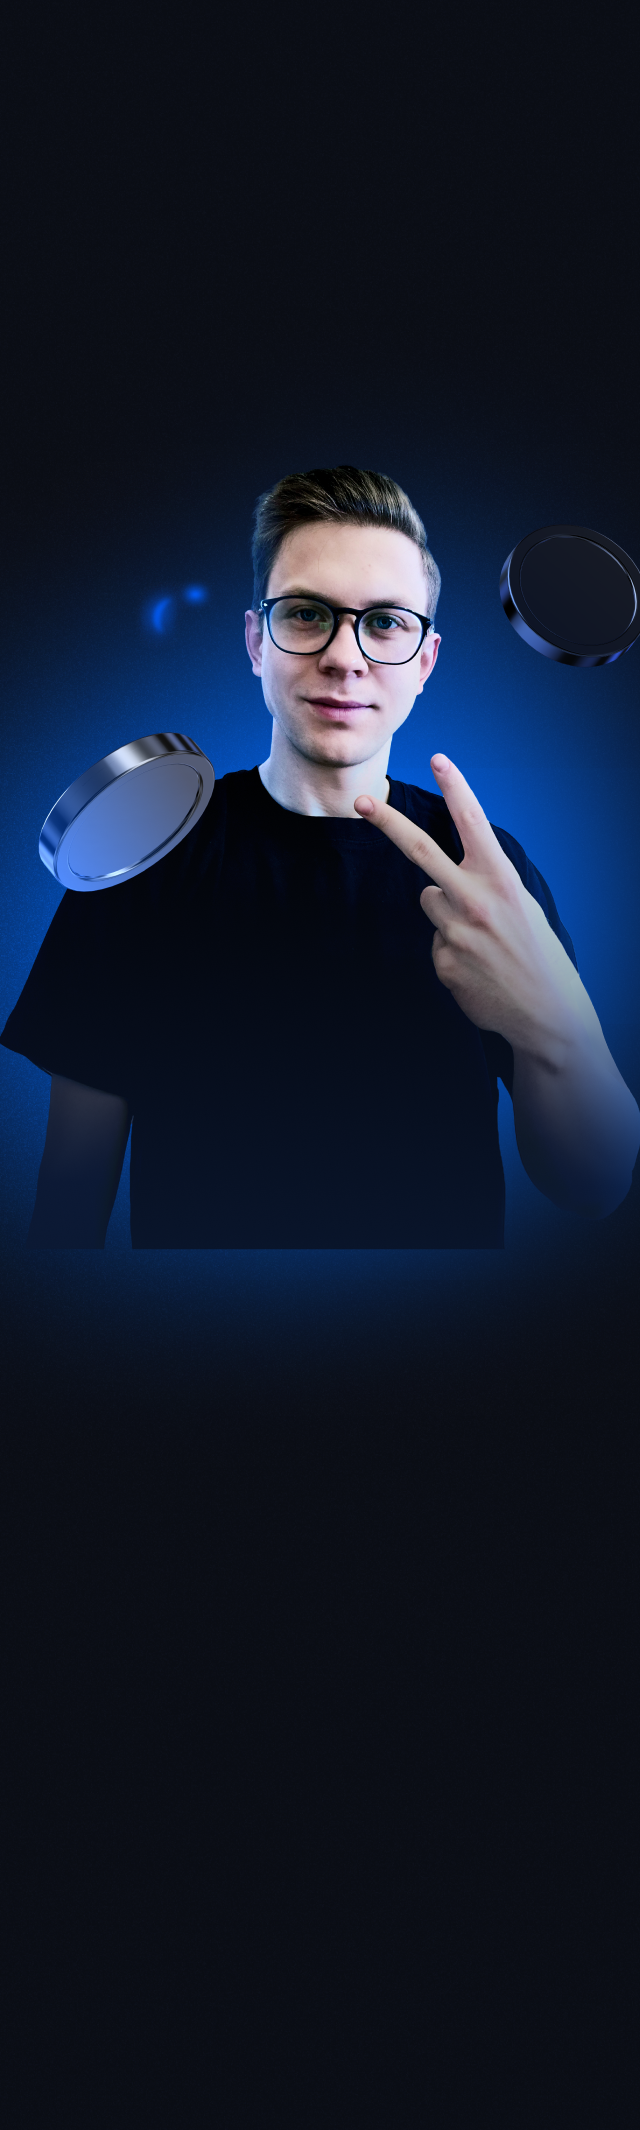
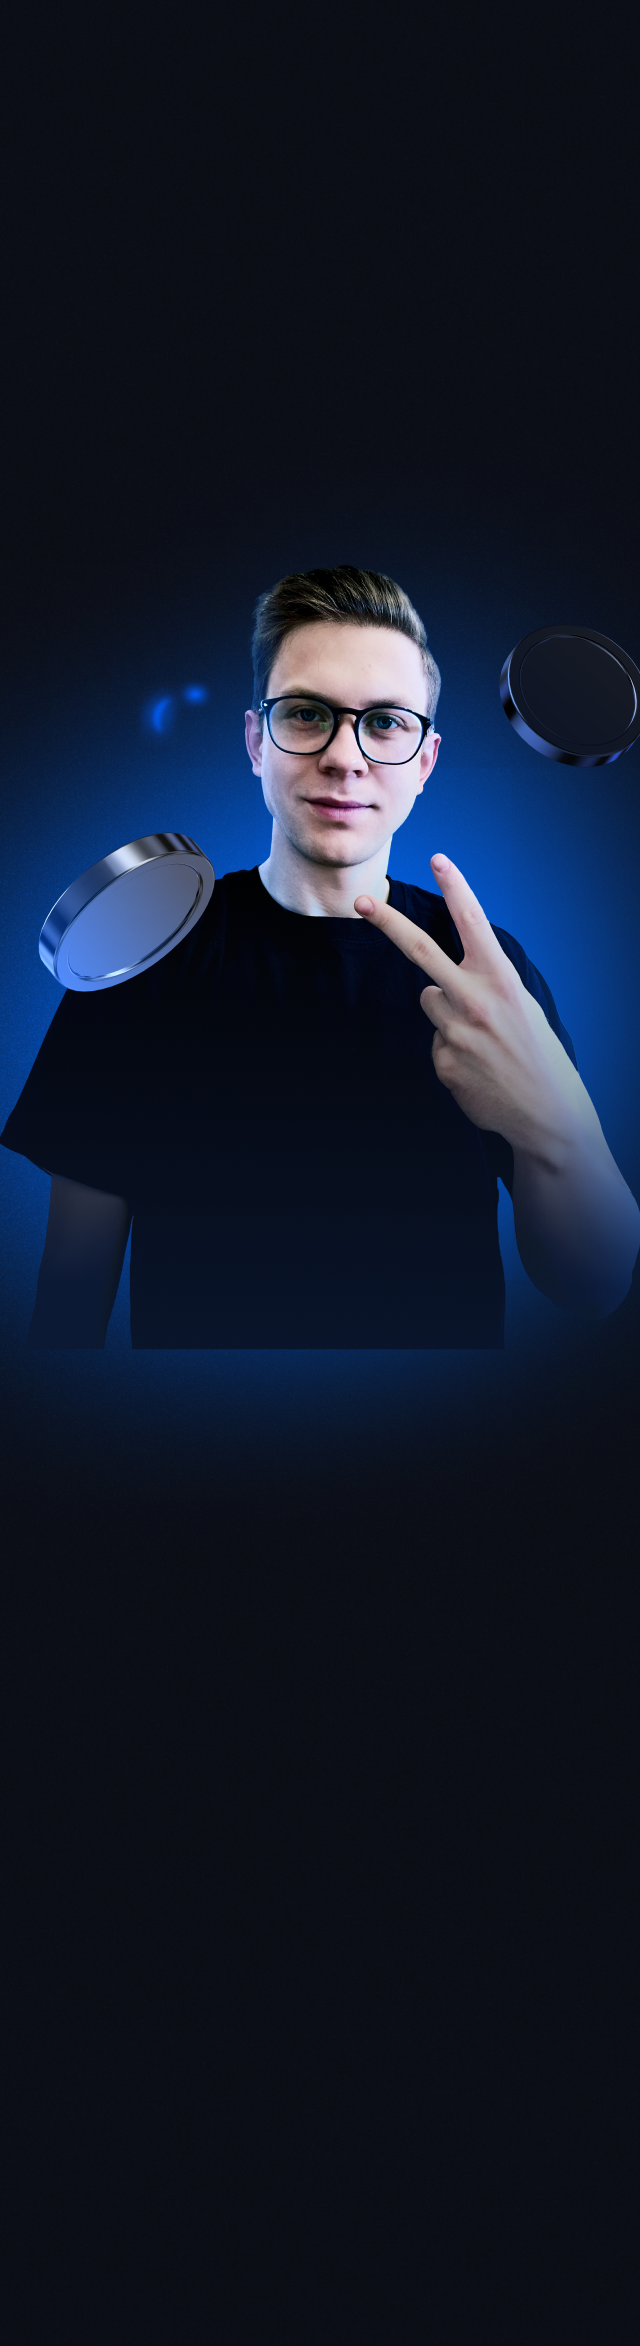
ready

diff --git a/assets/main.css b/assets/main.css
@@ -1625,9 +1625,10 @@ footer {
     }
 
     .resident {
-        padding-top: 26px;
-        background-image: url(images/resident_mb.png);
-        background-position: center;
+        padding-top: 25vw;
+        background-image: url('./images/resident_mb.png');
+        background-position: center top;
+        background-size: cover;
     }
 
     .open_telegram {
@@ -1701,7 +1702,7 @@ footer {
     }
 
     .resident_block {
-        margin-top: 32px;
+        margin-top: 0;
     }
 
     .resident_name {
@@ -1720,7 +1721,7 @@ footer {
     .resident_block p {
         margin: 16px 0;
         max-width: 100%;
-        margin-top: 320px;
+        margin-top: 100.5vw;
     }
 
     .white_btn {
